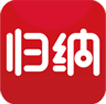
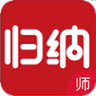
settings

diff --git a/src/features/settings/pages/update.vue b/src/features/settings/pages/update.vue
@@ -19,10 +19,7 @@
       <selector v-model="grade" title="年级" :options="list"></selector>
       <x-input title="学校" v-model="school" class="input_right"></x-input>
     </group>
-    <group>
-      <selector v-model="math" title="数学" :options="mathList"></selector>
-      <selector v-if="User.textbookAll.subjectType.length === 2" v-model="physics" title="物理" :options="physicsList"></selector>
-    </group>
+    
     <actionsheet v-model="show" :menus="menus" @on-click-menu="_menusClick"></actionsheet>
   </view-box>
 </template>
@@ -37,27 +34,7 @@ export default {
     XHeader, Group, ViewBox, XInput, Checker, CheckerItem, Selector, Cell, Actionsheet
   },
   computed: {
-    ...mapGetters(['User']),
-    mathList () {
-      let newObj = []
-      this.User.textbookAll.math.forEach((item, index) => {
-        newObj.push({
-          key: item.id.toString() || '',
-          value: item.name.toString() || ''
-        })
-      })
-      return newObj
-    },
-    physicsList () {
-      let newObj = []
-      this.User.textbookAll.physics.forEach((item, index) => {
-        newObj.push({
-          key: item.id.toString() || '',
-          value: item.name.toString() || ''
-        })
-      })
-      return newObj
-    }
+    ...mapGetters(['User'])
   },
   data () {
     return {
@@ -65,9 +42,8 @@ export default {
       sex: 0,
       school: '',
       grade: '',
-      physics: '',
-      math: '',
       list: [{key: '7', value: '七年级'}, {key: '8', value: '八年级'}, {key: '9', value: '九年级'}, {key: '10', value: '高中'}],
+      sublist: [{key: '2', value: '数学'}, {key: '7', value: '物理'}],
       show: false,
       menus: {
         menu1: '拍照',
@@ -76,30 +52,18 @@ export default {
     }
   },
   methods: {
-    ...mapActions(['setHeadImg', 'setUserInfo', 'getTextbookVersion', 'getUserInfo']),
+    ...mapActions(['setHeadImg', 'setUserInfo', 'getUserInfo']),
     _finish () {
       this.setUserInfo({
         name: this.name,
         sex: this.sex,
         school: this.school,
-        grade: this.grade,
-        subject: {
-          math: this.math,
-          physics: this.physics
-        }
+        grade: this.grade
       }).then(() => {
         // 更改年级需要重启应用,其他操作则重新获取数据
-        if (this.grade !== this.User.grade) {
-          try {
-            plus.runtime.restart()
-          } catch (e) {
-            this.$router.push('/login')
-          }
-        } else {
-          this.getUserInfo().then(() => {
-            history.go(-1)
-          })
-        }
+        this.getUserInfo().then(() => {
+          history.go(-1)
+        })
       })
     },
     _getImage () {
@@ -125,16 +89,6 @@ export default {
     },
     _menusClick (val) {
       val === 'menu1' ? this._getImage() : this._galleryImgs()
-    }
-  },
-  watch: {
-    grade (value) {
-      this.getTextbookVersion({'grade': value}).then(() => {
-        this.math = this.User.textbookAll.math[0].id
-        if (this.User.textbookAll.subjectType.length === 2) {
-          this.physics = this.User.textbookAll.physics[0].id
-        }
-      })
     }
   },
   beforeRouteEnter (to, from, next) {

diff --git a/src/features/about/pages/index.vue b/src/features/about/pages/index.vue
@@ -3,7 +3,7 @@
     <x-header slot="header" style="width:100%;position:absolute;left:0;top:0;z-index:1;" :left-options="{backText: '关于归纳本'}"></x-header>
     <flexbox justify="center" orient="vertical" style="text-align:center;padding:3rem 0 1rem">
       <flexbox-item><img  src="../assets/icon.png" width="80px" height="80px"></flexbox-item>
-      <flexbox-item><p style="font-size:16px;">归纳本学生端 3.0.0</p></flexbox-item>
+      <flexbox-item><p style="font-size:16px;">归纳本教师端 3.0.0</p></flexbox-item>
     </flexbox>
     <group gutter="0">
       <cell title="意见反馈" link="about/advice"></cell>
@@ -37,9 +37,9 @@ export default {
   methods: {
     _openStore () {
       if (this.System === 'IOS') {
-        window.location.href = 'itms-apps://itunes.apple.com/cn/app/gui-na-ben-xue-sheng-duan/id1184077595?l=en&mt=8'
+        window.location.href = 'itms-apps://itunes.apple.com/cn/app/gui-na-ben-jiao-shi-duan-zai/id1190013249?l=en&mt=8'
       } else {
-        window.location.href = 'market://details?id=com.sanbao.guinaben.student'
+        window.location.href = 'market://details?id=com.sanbao.teacher.student'
       }
     },
     _add () {

diff --git a/src/router/pages/bag.vue b/src/router/pages/bag.vue
@@ -9,12 +9,6 @@
       </swiper-item>
     </swiper>
     <group gutter='0'>
-      <cell title="我的收藏本" link="collect">
-        <i class="icon iconfont icon-box" style="color:#6DC6FF" slot="icon"></i>
-      </cell>
-      <cell title="我的习题册" link="myBook">
-        <i class="icon iconfont icon-book" style="color:#794BB8" slot="icon"></i>
-      </cell>
       <cell title="我的班级" link="class">
         <i class="icon iconfont icon-hat" style="color:#ABC97C" slot="icon"></i>
         <template v-if="News.classes">

diff --git a/src/router/pages/user.vue b/src/router/pages/user.vue
@@ -1,7 +1,7 @@
 <template>
   <div class='user'>
     <x-header slot="header" style="width:100%;position:absolute;left:0;top:0;z-index:100;" :left-options="{showBack: false}">
-      <!--<i class="icon iconfont icon-share" slot="right"></i>-->
+      <i class="icon iconfont icon-share" slot="right"></i>
       个人中心
     </x-header>
     <div class="info">

diff --git a/build/webpack.base.conf.js b/build/webpack.base.conf.js
@@ -70,7 +70,9 @@ let webpackConfig = {
   }
 }
 
-
 module.exports = vuxLoader.merge(webpackConfig, {
-  plugins: ['vux-ui', 'progress-bar', 'duplicate-style']
+  plugins: ['vux-ui', 'progress-bar', 'duplicate-style', {
+    name: 'less-theme',
+    path: 'src/theme.less'
+  }]
 })
